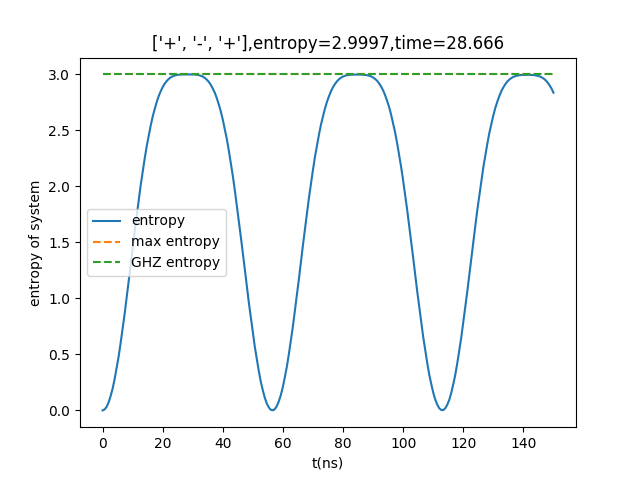
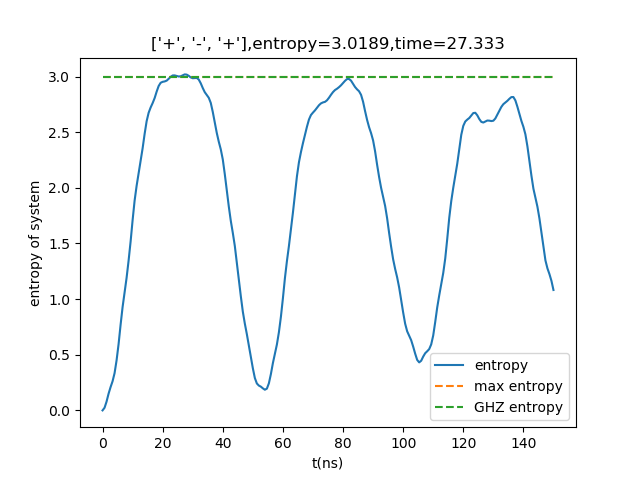
update

diff --git a/programmer/programme/algorithm/Renyi Entropy/evolution of Renyi Entropy.py b/programmer/programme/algorithm/Renyi Entropy/evolution of Renyi Entropy.py
@@ -224,41 +224,41 @@ def get_max_entropy(Num_qubits):
 if __name__ == '__main__':
     
 
-    # Num_qubits = 3
-    # frequency = np.ones(Num_qubits) * 5.0 * 2*np.pi
-    # # frequency = np.array([1,1.25]) * 5.0 * 2*np.pi
-    # coupling = np.ones(Num_qubits-1) * 0.0125 * 2*np.pi
-    # eta_q=  np.ones(Num_qubits) * (-0.250) * 2*np.pi
-    # N_level= 3
-    # parameter = [frequency,coupling,eta_q,N_level]
-    # QBC = Qubits(qubits_parameter = parameter)
+    Num_qubits = 3
+    frequency = np.ones(Num_qubits) * 5.0 * 2*np.pi
+    # frequency = np.array([1,1.25]) * 5.0 * 2*np.pi
+    coupling = np.ones(Num_qubits-1) * 0.0125 * 2*np.pi
+    eta_q=  np.ones(Num_qubits) * (-0.250) * 2*np.pi
+    N_level= 3
+    parameter = [frequency,coupling,eta_q,N_level]
+    QBC = Qubits(qubits_parameter = parameter)
 
-    # inistate_label = ['+', '-', '+']
-    # t_total = 150
+    inistate_label = ['+', '-', '+']
+    t_total = 150
 
-    # subsystem = generate_subsys(Num_qubits)
-    # global_entropy = EntropyEvolution(QBC,inistate_label,t_total,subsystem,traceplot=True)
-    # print(global_entropy)
+    subsystem = generate_subsys(Num_qubits)
+    global_entropy = EntropyEvolution(QBC,inistate_label,t_total,subsystem,traceplot=True)
+    print(global_entropy)
 
 
-    for root, dirs, files in os.walk('simulation'):
-        for file in files:  
-            inistate_label = eval(os.path.splitext(file)[0])
-            Num_qubits = len(inistate_label)
+    # for root, dirs, files in os.walk('simulation'):
+    #     for file in files:  
+    #         inistate_label = eval(os.path.splitext(file)[0])
+    #         Num_qubits = len(inistate_label)
         
-            frequency = np.ones(Num_qubits) * 5.0 * 2*np.pi
-            # frequency = np.array([1,1.25]) * 5.0 * 2*np.pi
-            coupling = np.ones(Num_qubits-1) * 0.0125 * 2*np.pi
-            eta_q=  np.ones(Num_qubits) * (-0.250) * 2*np.pi
-            N_level= 2
-            parameter = [frequency,coupling,eta_q,N_level]
-            QBC = Qubits(qubits_parameter = parameter)
+    #         frequency = np.ones(Num_qubits) * 5.0 * 2*np.pi
+    #         # frequency = np.array([1,1.25]) * 5.0 * 2*np.pi
+    #         coupling = np.ones(Num_qubits-1) * 0.0125 * 2*np.pi
+    #         eta_q=  np.ones(Num_qubits) * (-0.250) * 2*np.pi
+    #         N_level= 2
+    #         parameter = [frequency,coupling,eta_q,N_level]
+    #         QBC = Qubits(qubits_parameter = parameter)
 
-            t_total = 150
+    #         t_total = 150
 
-            subsystem = generate_subsys(Num_qubits)
-            global_entropy = EntropyEvolution(QBC,inistate_label,t_total,subsystem,traceplot=True)
-            print(global_entropy)
+    #         subsystem = generate_subsys(Num_qubits)
+    #         global_entropy = EntropyEvolution(QBC,inistate_label,t_total,subsystem,traceplot=True)
+    #         print(global_entropy)
 
     
     # max_num = 6
